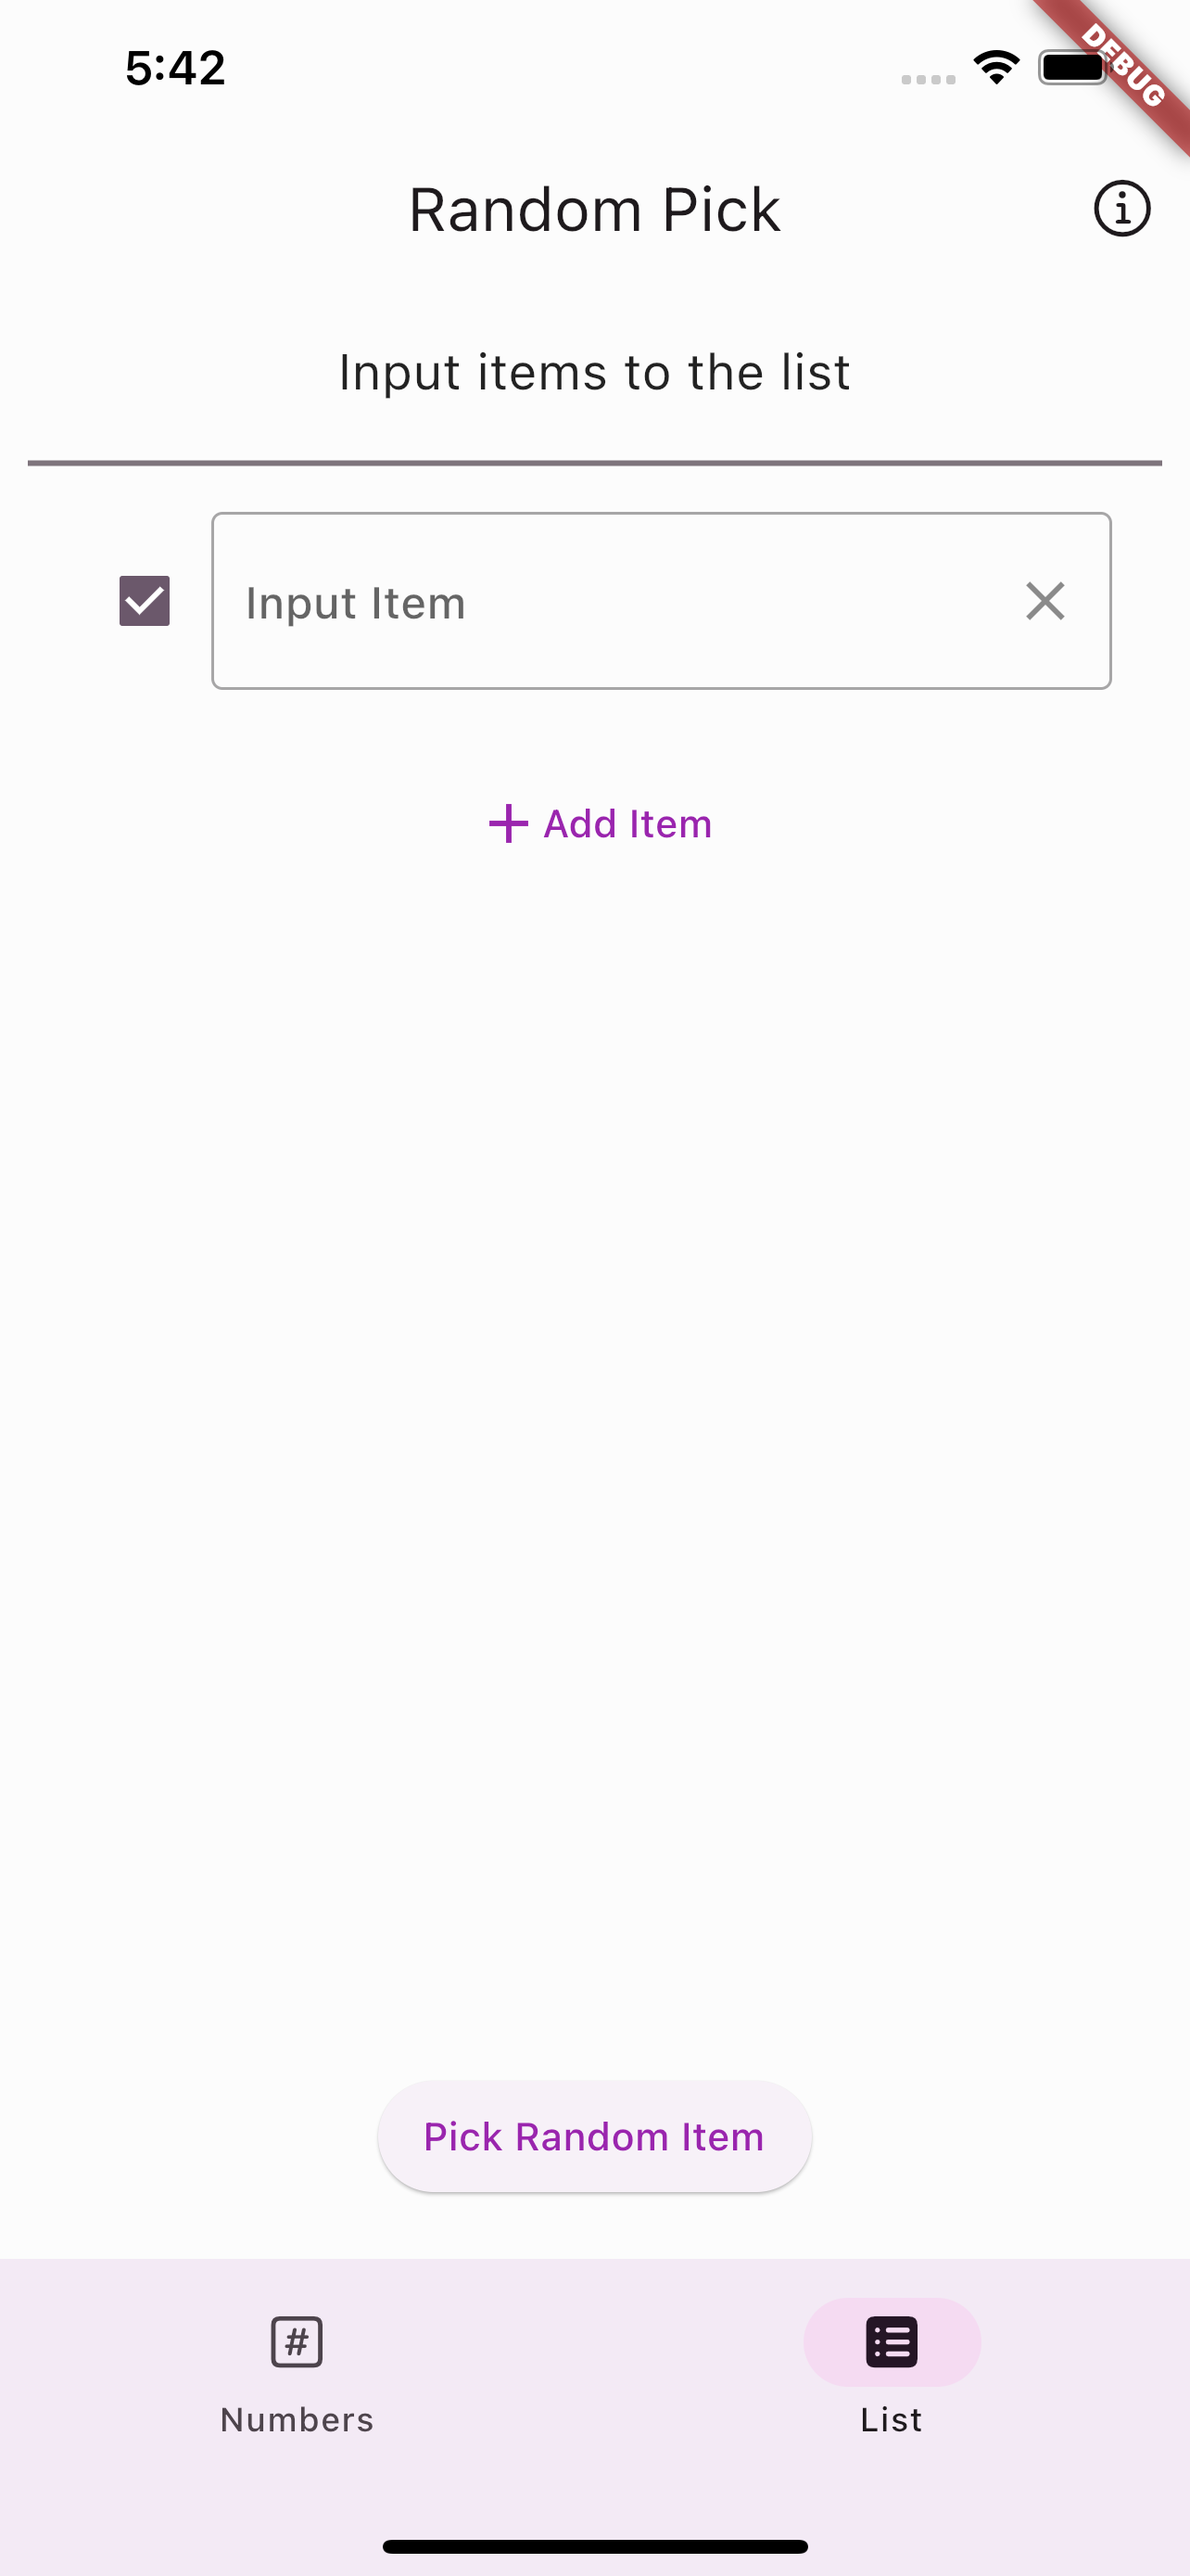
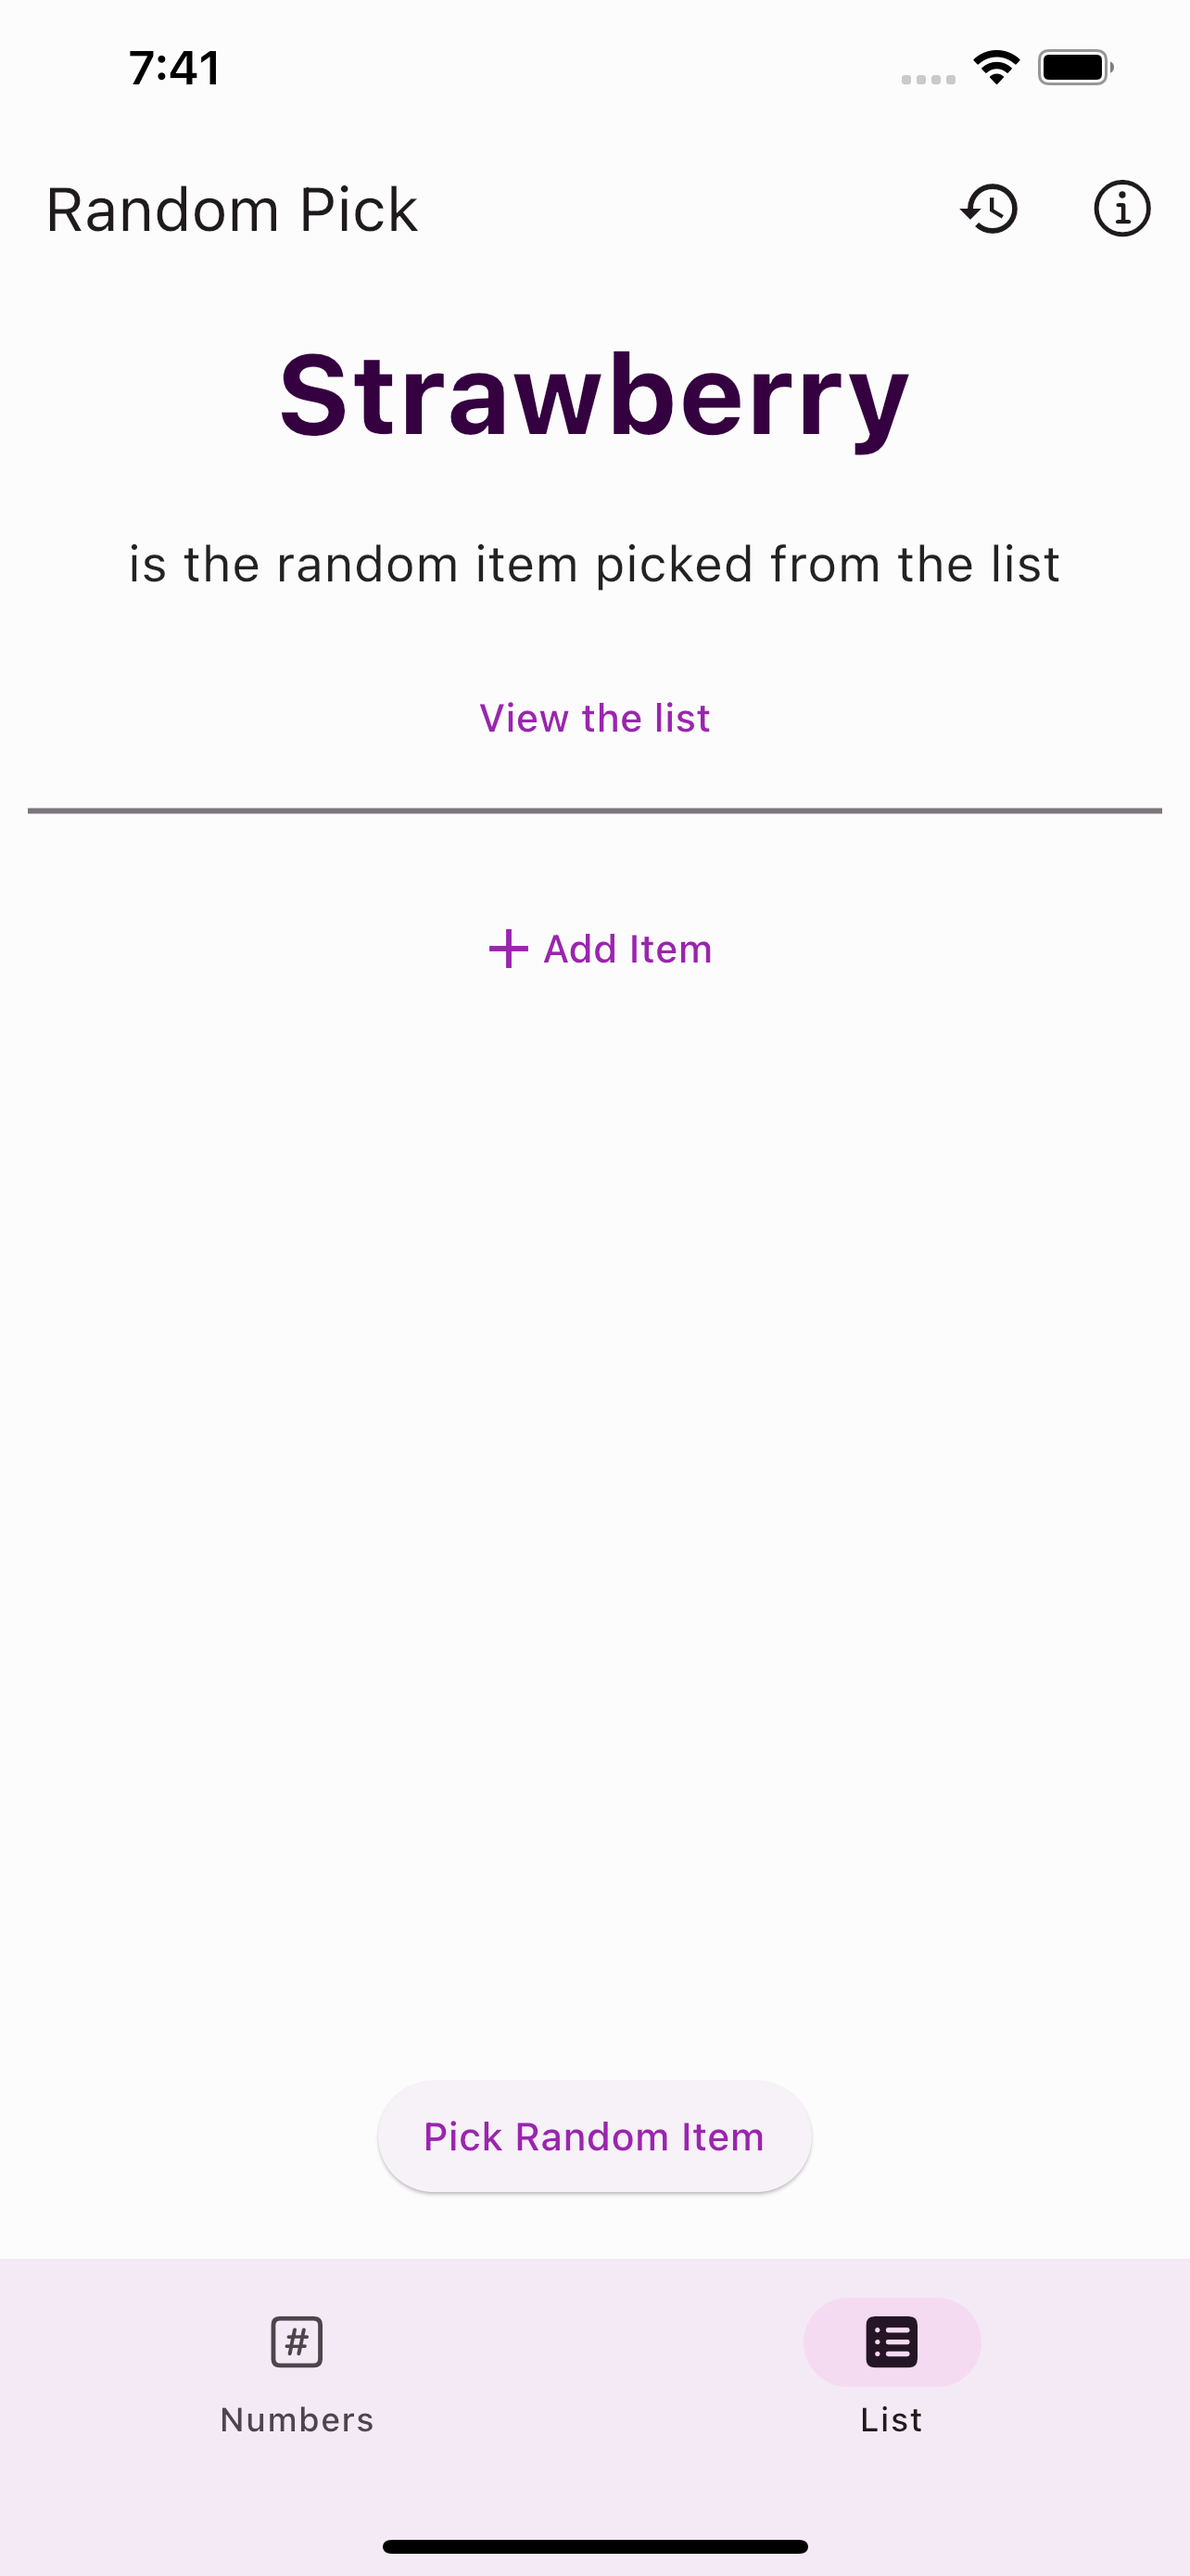
update readme and screenshots

diff --git a/README.md b/README.md
@@ -29,10 +29,11 @@
 
 ## What this app does
 
-The application has two functions as of now.
+The application has the following functions as of now.
 
 1. Numbers - It takes in two integer values __min__ _(inclusive)_ and __max__ _(inclusive)_, then returns a picked random number from the range.
 2. List - It takes a list of items<sup>[1]</sup>, then returns a random item (picked) from the pool. The items inside the list can be (un)checked to include in the item pool.
+3. History - All the picks are stored in the device, with an option to delete them when not needed.
 
 <sup>[1]</sup>item: The item can be any string - a number, a name, a place, an animal, a thing, an object, etc.
 
@@ -44,7 +45,7 @@ Many people across the globe use the similar concept of picking randomly to deci
 
 ## Screenshots
 
-<img src="./screenshots/screenshot_1.png" height="500"> <img src="./screenshots/screenshot_2.png" height="500"> <img src="./screenshots/screenshot_3.png" height="500"> <img src="./screenshots/screenshot_4.png" height="500"> <img src="./screenshots/screenshot_5.png" height="500"> <img src="./screenshots/screenshot_6.png" height="500"> <img src="./screenshots/screenshot_7.png" height="500"> <img src="./screenshots/screenshot_8.png" height="500">
+<img src="./screenshots/screenshot_1.png" height="500"> <img src="./screenshots/screenshot_2.png" height="500"> <img src="./screenshots/screenshot_3.png" height="500"> <img src="./screenshots/screenshot_4.png" height="500"> <img src="./screenshots/screenshot_5.png" height="500"> <img src="./screenshots/screenshot_6.png" height="500"> <img src="./screenshots/screenshot_7.png" height="500">
 
 ## Architecture
 
